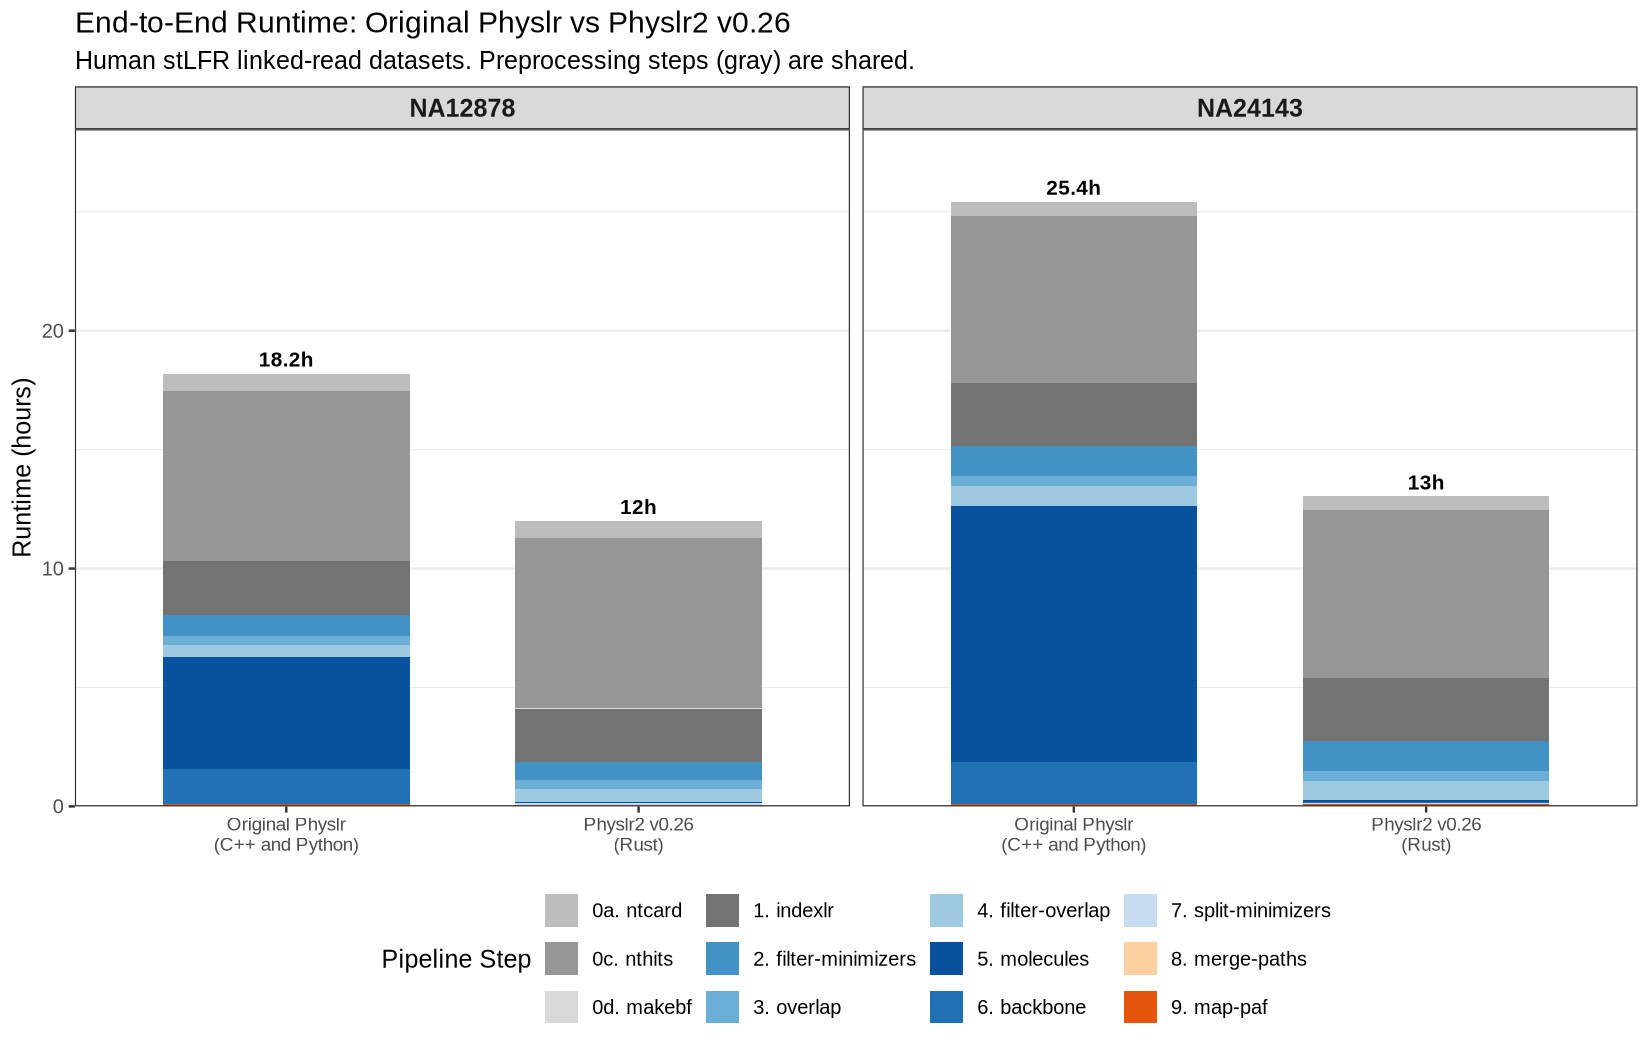
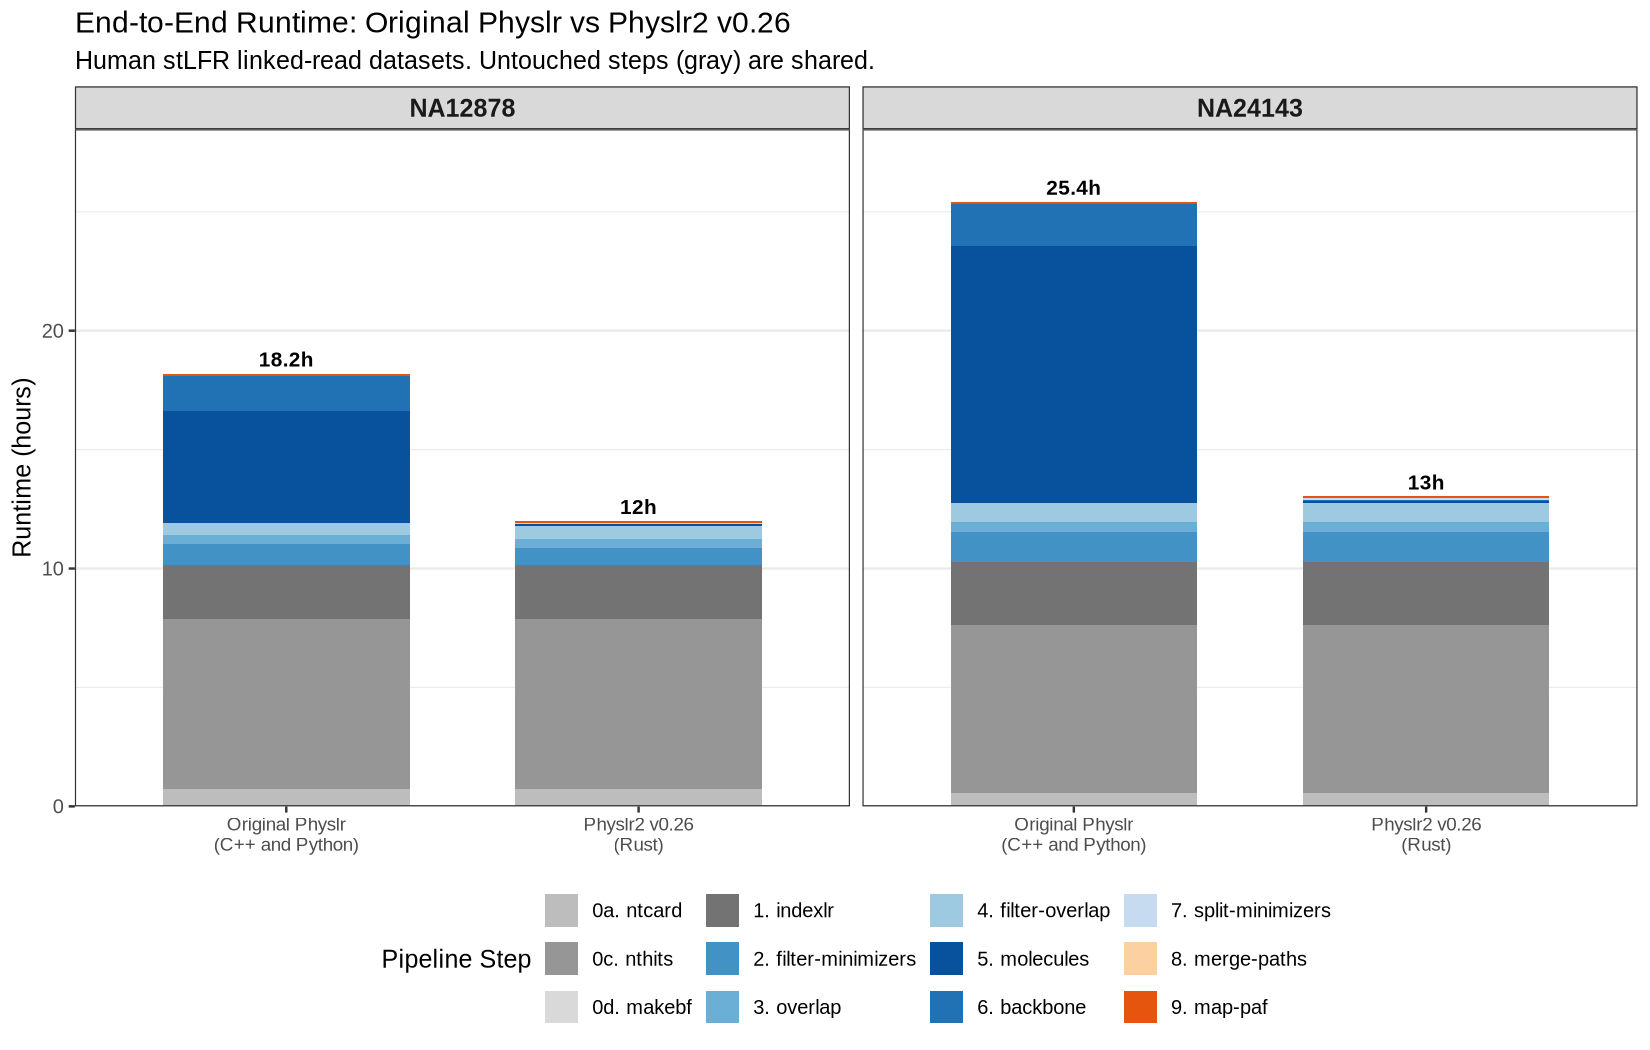
Fix runtime chart step order and report wording
Stack early pipeline steps at bottom of bar chart.
Replace 'third-party' with 'untouched' for shared preprocessing steps.

diff --git a/COMPARISON_REPORT.md b/COMPARISON_REPORT.md
@@ -16,13 +16,13 @@ Comparison of physical maps produced by the original Physlr (C++ and Python) and
 | NA12878 | stLFR | [GIAB FTP](https://ftp-trace.ncbi.nlm.nih.gov/ReferenceSamples/giab/data/NA12878/stLFR/) |
 | NA24143 | stLFR | [GIAB FTP](https://ftp-trace.ncbi.nlm.nih.gov/ReferenceSamples/giab/data/AshkenazimTrio/HG004_NA24143_mother/stLFR/) |
 
-Reference: GRCh38 (no alt analysis set). Single compute node, 16 CPUs, 200 GB RAM.
+Reference: GRCh38 (no alt analysis set). Benchmarked on a single compute node, 16 CPUs, 200 GB RAM.
 
 ---
 
 ## Runtime and Memory
 
-End-to-end pipeline runtime for both tools. Preprocessing steps (gray: ntcard, nthits, makebf, indexlr) use the same third-party tools and are shared between both implementations. The Physlr-specific steps (blue/orange: filter-minimizers through map-paf) are where Physlr2 differs.
+End-to-end pipeline runtime for both tools. The initial steps (gray: ntcard, nthits, makebf, indexlr) are untouched and shared between both implementations. The rewritten steps (blue/orange: filter-minimizers through map-paf) are where Physlr2 differs.
 
 Physlr2 v0.26 uses a cascading Bloom filter for singleton removal in filter-minimizers, reducing memory by ~40% compared to the exact HashMap approach. The molecules step uses deterministic binning (seed=42).
 
@@ -42,7 +42,7 @@ Physlr-specific steps only (molecules + backbone + map-paf):
 
 ![Peak Memory per Step](results/comparison/memory_full.png)
 
-Peak memory is dominated by the overlap step (~116–121 GB) and filter-minimizers (~63–121 GB). The Physlr-specific steps (molecules, backbone, merge-paths) use 4–17 GB.
+Peak memory is dominated by the overlap step (~116–121 GB) and filter-minimizers (~63–121 GB). The rewritten steps (molecules, backbone, merge-paths) use 4–17 GB.
 
 ---
 